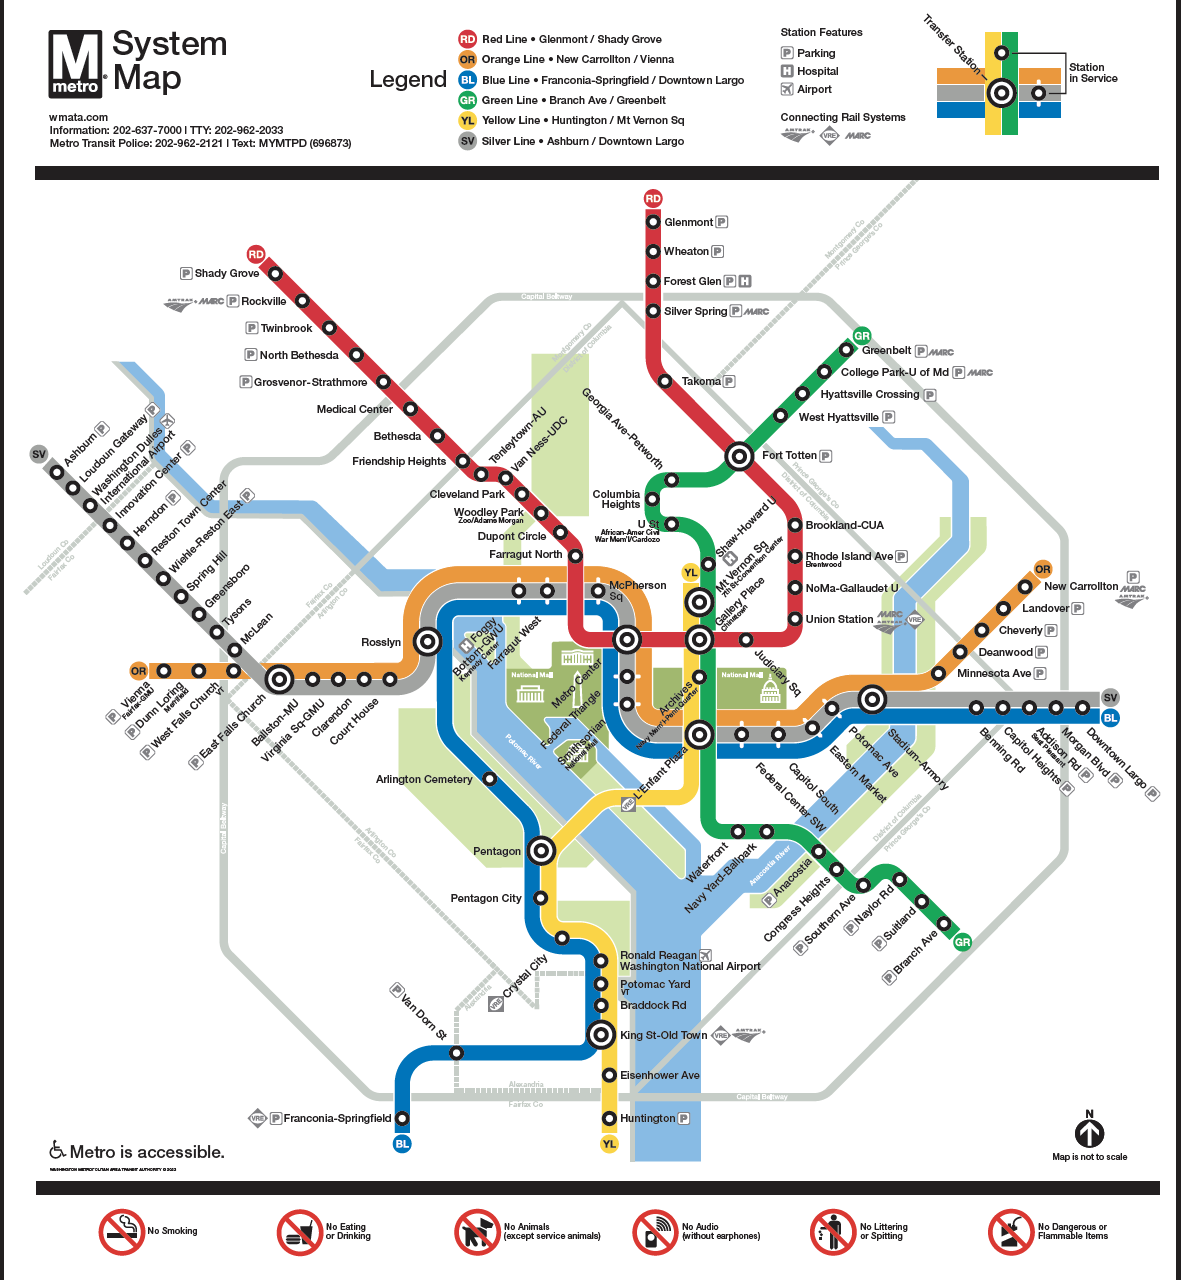
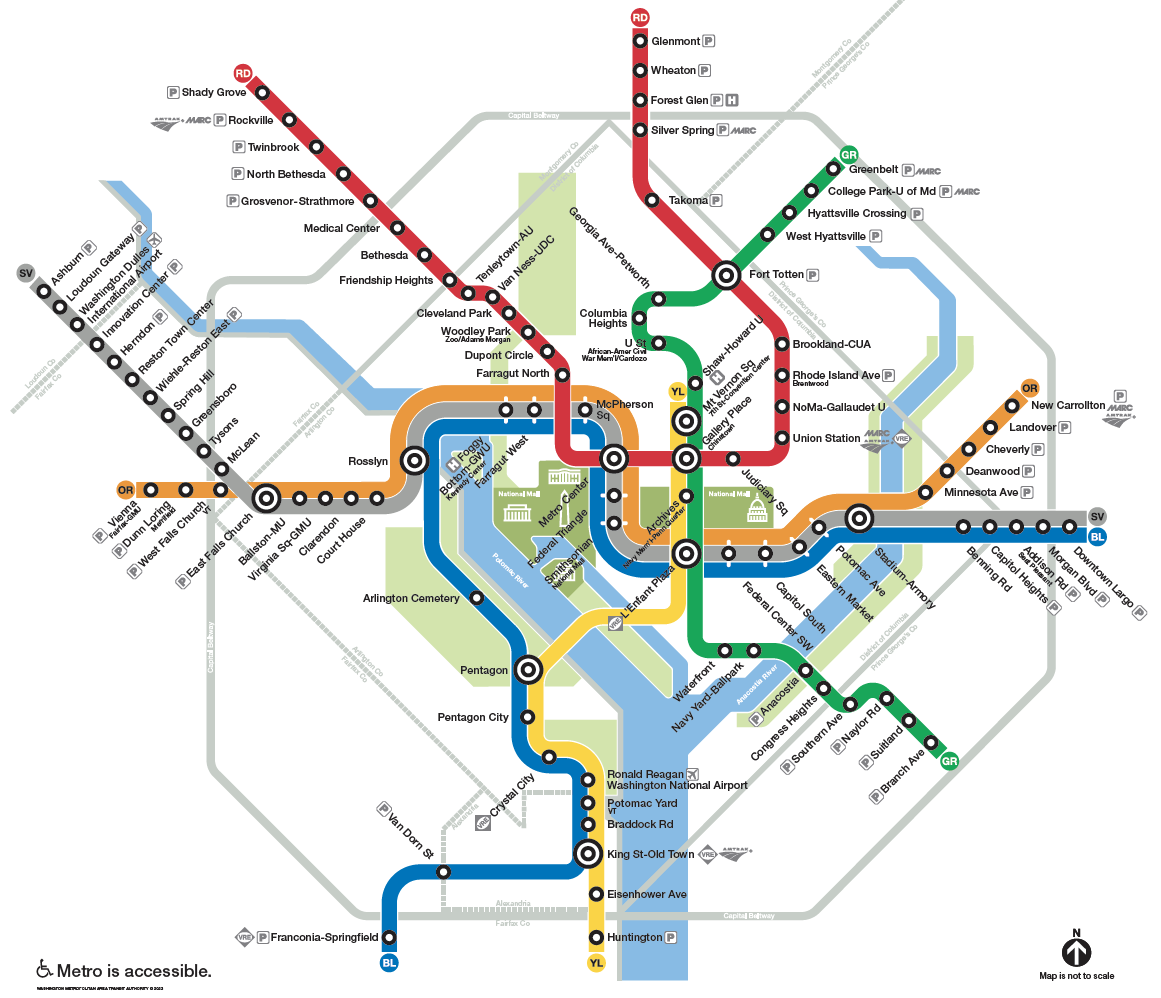
Big - add iresume section with parallax

diff --git a/src/iresume.html b/src/iresume.html
@@ -1,20 +1,62 @@
+---
+layout: pic_bg
+title: My Awesome Page
+permalink: /iresume/
+class: iresume
+---
+
 <!DOCTYPE html>
 <html lang="en">
 <head>
-    <meta charset="UTF-8">
-    <meta name="viewport" content="width=device-width, initial-scale=1.0">
-    <title>Background Image Example</title>
-    <style>
-        body {
-            background-image: url('assets/images/background.png'); /* Path to your image */
-            background-size: cover; /* Cover the entire viewport */
-            background-position: center; /* Center the image */
-            background-repeat: no-repeat; /* Do not repeat */
-            height: 100vh; /* Full viewport height */
-        }
-    </style>
+  <meta charset="UTF-8" />
+  <meta name="viewport" content="width=device-width, initial-scale=1.0"/>
+  <title>Metro Map Resume</title>
+  <link rel="stylesheet" href="/assets/css/metro-parallax.css">
 </head>
 <body>
-    <h1>Welcome to My Page</h1>
+
+  <!-- Station 1 -->
+  <section class="resume-section station-section red" id="experience">
+    <h2>🚇 Experience</h2>
+    <p>Red Line Operator for 10+ years. Managed critical safety and timing operations on DC's busiest corridor.</p>
+  </section>
+
+  <!-- Parallax between stations -->
+  <section class="parallax" style="background-image: url('/assets/images/train-tunnel.jpg');"></section>
+
+  <!-- Station 2 -->
+  <section class="resume-section station-section blue" id="education">
+    <h2>🎓 Education</h2>
+    <p>B.S. in Transportation Management from UMD. Minor in Urban Planning.</p>
+  </section>
+
+  <!-- Parallax -->
+  <section class="parallax" style="background-image: url('/assets/images/metro-map-bg.jpg');"></section>
+
+  <!-- Station 3 -->
+  <section class="resume-section station-section orange" id="skills">
+    <h2>🛠 Skills</h2>
+    <p>Scheduling, Operations, Crisis Communication, GTFS, Data Analytics, Excel, Python.</p>
+  </section>
+
+  <!-- Parallax -->
+  <section class="parallax" style="background-image: url('/assets/images/metro-station.jpg');"></section>
+
+  <!-- Station 4 -->
+  <section class="resume-section station-section green" id="projects">
+    <h2>📁 Projects</h2>
+    <p>Real-time Metro delay tracker (API + JS), GTFS visualizer, safety dashboard prototype.</p>
+  </section>
+
+  <!-- Final Parallax -->
+  <section class="parallax" style="background-image: url('/assets/images/metro-fadeout.jpg');"></section>
+
+  <!-- Final Station -->
+  <section class="resume-section station-section yellow" id="contact">
+    <h2>📬 Contact</h2>
+    <p>Email: michael@fergione.com<br>LinkedIn: linkedin.com/michael-fergione</p>
+  </section>
+
 </body>
 </html>
+

diff --git a/src/assets/css/style.css b/src/assets/css/style.css
@@ -1,0 +1,85 @@
+/* Typography: Bold, clear, like signage */
+body.metro_s {
+    font-family: 'Helvetica Neue', Helvetica, Arial, sans-serif;
+    background-color: #f1f1f1;
+    color: #1a1a1a;
+    margin: 0;
+    padding: 0;
+  }
+  
+  /* Header area - think station pylon */
+  .metro-header {
+    background-color: #231f20; /* WMATA's black pylon color */
+    color: #ffffff;
+    padding: 1.5rem;
+    text-align: center;
+    font-size: 2rem;
+    font-weight: bold;
+    letter-spacing: 1px;
+  }
+  
+  /* Metro line colors */
+  .red-line { color: #be1337; }
+  .blue-line { color: #0076a8; }
+  .orange-line { color: #da8707; }
+  .yellow-line { color: #f5d415; }
+  .green-line { color: #00b050; }
+  .silver-line { color: #a2a4a1; }
+  
+  /* Padded content area */
+  .metro-content {
+    max-width: 800px;
+    margin: 2rem auto;
+    background-color: #ffffff;
+    padding: 2rem;
+    border-radius: 8px;
+    box-shadow: 0 4px 12px rgba(0,0,0,0.1);
+  }
+  
+  /* Buttons, like fare machine look */
+  .metro-button {
+    background-color: #231f20;
+    color: white;
+    padding: 0.75rem 1.5rem;
+    border: none;
+    border-radius: 0;
+    text-transform: uppercase;
+    font-weight: bold;
+    cursor: pointer;
+    transition: background 0.2s ease;
+  }
+  .metro-button:hover {
+    background-color: #444;
+  }
+  
+  /* Footer */
+  .metro-footer {
+    text-align: center;
+    font-size: 0.9rem;
+    padding: 1rem;
+    background-color: #eee;
+    color: #555;
+    margin-top: 4rem;
+  }
+  
+  .station {
+    /* Metro station button look */
+    display: inline-block;
+    text-align: center;
+    padding: 0.5rem 1rem;
+    margin: 0 1rem;
+    border: 4px solid currentColor;
+    border-radius: 50%;
+    color: inherit;
+    text-decoration: none;
+    font-weight: bold;
+    transition: transform 0.2s ease;
+  }
+  @keyframes bounce {
+    0%, 100% { transform: translateY(0); }
+    50% { transform: translateY(-10px); }
+  }
+  
+  .station:hover {
+    animation: bounce 0.4s ease-in-out;
+  }

diff --git a/src/assets/css/metro-parallax.css b/src/assets/css/metro-parallax.css
@@ -1,0 +1,55 @@
+body {
+    margin: 0;
+    font-family: 'Helvetica Neue', sans-serif;
+    color: #231f20;
+    scroll-behavior: smooth;
+  }
+
+  /* Metro line colors */
+  /* Shared base for all station sections */
+  .station-section {
+    padding: 6rem 2rem;
+    background: white;
+    text-align: center;
+    box-shadow: 0 4px 12px rgba(0,0,0,0.05);
+    border-left: 6px solid transparent;
+    transition: all 0.3s ease;
+  }
+  
+  /* Apply color to h2 and border-left */
+  .station-section h2 {
+    font-size: 2rem;
+    margin-bottom: 1rem;
+  }
+  
+  /* Line color modifiers */
+  .red h2 { color: #be1337; }
+  .orange h2 { color: #da8707; }
+  .blue h2 { color: #0076a8; }
+  .silver h2 { color: #a2a4a1; }
+  .green h2 { color: #00b050; }
+  .yellow h2 { color:  #f5d415}
+  
+  .red { border-left-color: #be1337; }
+  .orange { border-left-color: #da8707; }
+  .blue { border-left-color: #0076a8; }
+  .silver { border-left-color: #a2a4a1; }
+  .green { border-left-color: #00b050; }
+  .yellow { border-left-color:  #f5d415}
+  
+  /* Parallax effect sections */
+  .parallax {
+    height: 60vh;
+    background-attachment: fixed;
+    background-position: center;
+    background-repeat: no-repeat;
+    background-size: cover;
+  }
+  
+  /* Responsive fallback for mobile (background-attachment: fixed doesn't work on some devices) */
+  @media (max-width: 768px) {
+    .parallax {
+      background-attachment: scroll;
+      height: 40vh;
+    }
+  }

diff --git a/src/assets/css/iresume.css b/src/assets/css/iresume.css
@@ -1,0 +1,15 @@
+
+/* iresume background styling */
+.parallax-section {
+    background-image: url('/assets/images/background.png');
+    background-attachment: fixed;
+    background-position: center;
+    background-repeat: no-repeat;
+    background-size: cover;
+    height: 100vh; /* Full screen height */
+    display: flex;
+    align-items: center;
+    justify-content: center;
+    color: white;
+    text-align: center;
+  }

diff --git a/src/_layouts/pic_bg.html b/src/_layouts/pic_bg.html
@@ -1,0 +1,6 @@
+<body class="{{ page.class }}"></body>
+<head>
+    <link rel="stylesheet" href="{{ '/assets/css/style.css' | relative_url }}">
+    <link rel="stylesheet" href="{{ '/assets/css/iresume.css' | relative_url }}">
+</head>
+{{ content }}

diff --git a/src/_layouts/default.html b/src/_layouts/default.html
@@ -1,0 +1,2 @@
+<body class="{{ page.class }}"></body>
+{{ content }}

diff --git a/README.md b/README.md
@@ -1,2 +1,13 @@
 # fergione.github.io
-Personal Website
+Personal Website built using jeykll
+
+I used mise to build the enviornment which can be used to setup your own environment to generate a locally run version.
+
+
+# Using mise-en-place
+mise activate
+mise use ruby@3.4.1
+
+# running jekyll
+In the main directory run
+$~ bundle exec jekyll serve --source src
